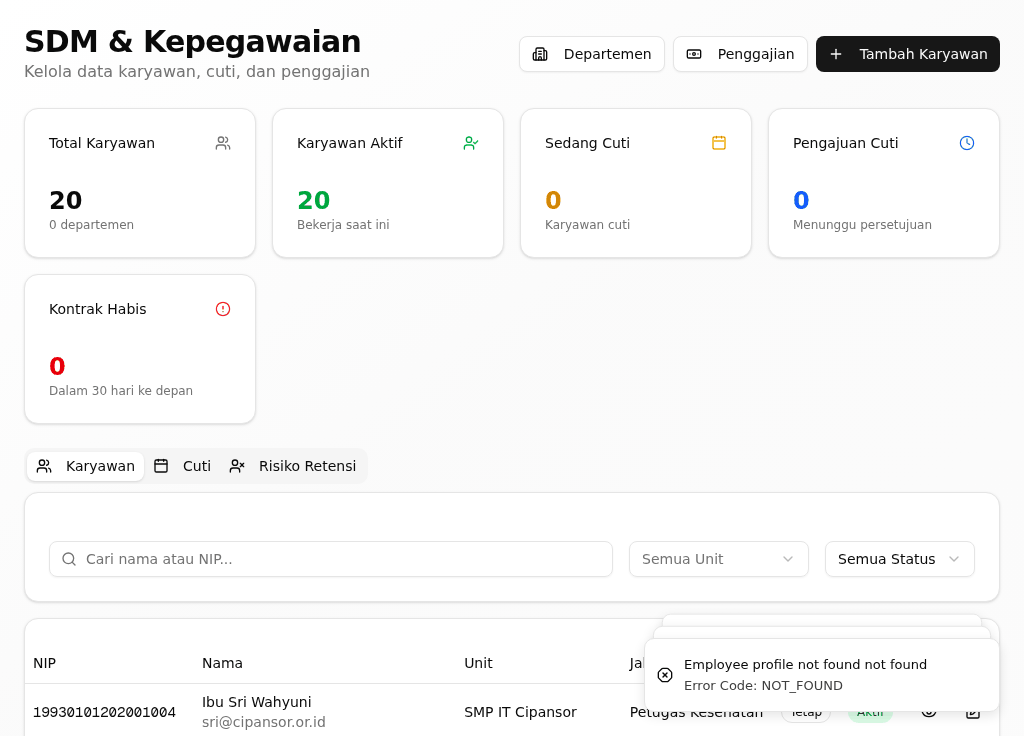
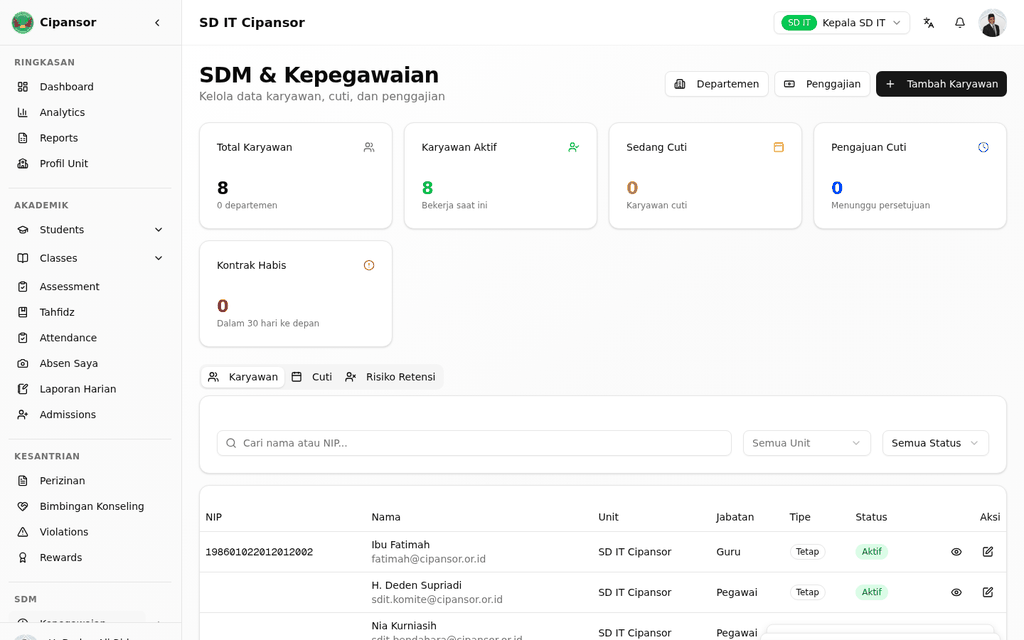
docs(hr): correct the kepala-unit pegawai card after review (#833)
The *Memantau pegawai dan cuti* card still claimed two things that are
not true, both verified on the running stack as sdit.kepala:

- "Saring dengan Semua Status" — GET /hr/employees ignores `status`, so
  ACTIVE / INACTIVE / ON_LEAVE all return the whole unit (8 rows), and
  RESIGNED / RETIRED are rejected with 400. The card now points at the
  search box and drops the status-filter claim.
- "tab Cuti … dan tab Risiko Retensi menampilkan …" — GET /hr/leaves
  answers 404 "Employee profile not found" for a kepala with no staff row
  and GET /hr/analytics/retention-risk is admin-only (403), so both tabs
  are empty for the kepala. The card now promises only the Karyawan tab
  and says Cuti/Retensi are admin territory.

Also records what the kepala actually sees: three error toasts on load
(leaves 404 + retention-risk/contracts-expiring 403).

Figure 6 is re-captured from /hr as the kepala (Karyawan tab) and the
manifest caption/bytes updated; revision row 0.3 records the re-run.

known-issues.md: the leave-form entry now lists the per-role statuses
(unit admin 404, Super Admin 500 FK leaves_staff_id_fkey, guru-for-self
403, non-teaching staff 404), plus two new entries (status filter is a
no-op and offers rejected values; /hr shows three error toasts to the
kepala).

diff --git a/docs/PANDUAN-PENGGUNA-KEPALA-UNIT.md b/docs/PANDUAN-PENGGUNA-KEPALA-UNIT.md
@@ -4,6 +4,7 @@
 |---|---|---|---|---|
 | 0.1 | 30 September 2026 | aplikasi berjalan dari kode commit `a4735001` | **T1 — terverifikasi di aplikasi berjalan** | Penyusunan awal; tiap kartu dijalankan dengan akun demo kepala unit pada tumpukan lokal (PostgreSQL + API :3001 + web :3000) dan memuat tangkapan layar asli |
 | 0.2 | 11 November 2026 | aplikasi berjalan dari kode `25693e32` | **T1 — terverifikasi di aplikasi berjalan** | Kartu *Mengelola pegawai dan cuti* diselaraskan dengan kewenangan yang sebenarnya: kepala unit **memantau** data pegawai dan cuti unit, sedangkan menambah/mengubah pegawai dan memutuskan cuti (setuju, tolak, batal) adalah kewenangan admin unit atau Super Admin. Kartu berganti judul menjadi *Memantau pegawai dan cuti*; langkahnya dijalankan ulang dengan akun demo kepala unit. |
+| 0.3 | 12 November 2026 | aplikasi berjalan dari kode `6b3c6127` (kode modul `hr` dan halaman `/hr` identik dengan `main` `e6e7e25e`) | **T1 — terverifikasi di aplikasi berjalan** | Kartu *Memantau pegawai dan cuti* diperbaiki setelah tinjauan: langkahnya dijalankan ulang dengan akun demo kepala unit pada tumpukan lokal — tab **Karyawan** menampilkan 8 pegawai unit, tab **Cuti** kosong ("Belum ada pengajuan cuti"), tab **Risiko Retensi** kosong ("Tidak ada data risiko yang ditemukan"). Klaim saring **Semua Unit**/**Semua Status** dilepas: saringan status tidak menyaring, dan analisis risiko retensi hanya terisi bagi admin unit atau Super Admin (`GET /hr/analytics/retention-risk` → 403 untuk kepala unit). |
 
 > **Tingkat verifikasi T1.** Semua kartu tugas di bawah sudah **dijalankan pada
 > aplikasi berjalan** dengan akun demo kepala unit, dan tiap kartu memuat
@@ -33,7 +34,7 @@ Semua data terbatas pada unit yang Anda pimpin.
 
 - Anda **memantau** santri, kehadiran, nilai, tahfidz, dan keuangan unit.
 - Anda **menyusun jadwal**, membuat penilaian, dan mengunduh rapor unit.
-- Anda **memantau** kepegawaian unit dan menilai kinerja pegawai.
+- Anda **memantau** data pegawai dan cuti unit, serta menilai kinerja pegawai.
 - Anda **tidak** menetapkan tagihan atau memeriksa bukti bayar — itu tugas
   bendahara unit.
 - Anda **tidak** menyusun naskah dinas — itu tugas tata usaha.
@@ -235,7 +236,7 @@ masing-masing.
 
 ## Memantau pegawai dan cuti
 
-**Tujuan.** Memantau data pegawai dan pengajuan cuti unit.
+**Tujuan.** Memantau data pegawai unit yang Anda pimpin.
 
 **Siapa.** Kepala unit.
 
@@ -246,25 +247,28 @@ masing-masing.
 **Langkah.**
 
 1. Buka **SDM & Kepegawaian**.
-2. Tab **Karyawan** menampilkan daftar pegawai unit: nama, NIP, jabatan, dan
-   status kepegawaian. Saring dengan **Semua Unit** atau **Semua Status** bila
-   perlu.
-3. Tab **Cuti** menampilkan pengajuan cuti, dan tab **Risiko Retensi**
-   menampilkan kontrak pegawai yang akan berakhir.
+2. Halaman membuka tab **Karyawan**: daftar pegawai unit yang Anda pimpin —
+   nama, NIP, jabatan, dan status kepegawaian. Bila daftarnya panjang, cari
+   dengan kotak **Cari nama atau NIP...**.
+3. Tab **Cuti** dan **Risiko Retensi** dapat dibuka, tetapi bagi kepala unit
+   keduanya biasanya kosong: keputusan cuti dan analisis risiko turnover adalah
+   urusan admin unit atau Super Admin.
 
-![Gambar 6. SDM & Kepegawaian: data pegawai, cuti, dan kontrak staf unit.](screens/kepemimpinan-kepala-unit/12-sdm.png){width=14cm}
+![Gambar 6. SDM & Kepegawaian: ringkasan unit dan daftar pegawai.](screens/kepemimpinan-kepala-unit/12-sdm.png){width=14cm}
 
-*Gambar 6. SDM & Kepegawaian: data pegawai, cuti, dan kontrak staf unit.*
+*Gambar 6. SDM & Kepegawaian: ringkasan unit dan daftar pegawai.*
 
-**Hasilnya, dan giliran siapa berikutnya.** Anda memantau data pegawai dan cuti
-unit. Menambah atau mengubah pegawai serta memutuskan cuti (setuju, tolak,
-batal) adalah kewenangan admin unit atau Super Admin, bukan kepala unit.
+**Hasilnya, dan giliran siapa berikutnya.** Anda memantau data pegawai unit.
+Menambah atau mengubah pegawai serta memutuskan cuti (setuju, tolak, batal)
+adalah kewenangan admin unit atau Super Admin, bukan kepala unit.
 
 **Bila tidak berhasil.**
 
 | Yang terlihat | Penyebab umum | Yang perlu dilakukan |
 |---|---|---|
-| Pegawai tidak muncul | Unit belum dipilih dengan benar | Saring dengan **Semua Unit** |
+| Pegawai tidak muncul | Pencarian terlalu sempit | Kosongkan kotak **Cari nama atau NIP...** |
+| Notifikasi galat muncul saat halaman dibuka | Tab **Cuti** dan **Risiko Retensi** menanyakan data yang bukan kewenangan kepala unit | Abaikan; tidak perlu tindakan |
+| Tab **Cuti** atau **Risiko Retensi** kosong | Tab itu urusan admin unit atau Super Admin | Tidak perlu tindakan; pakai tab **Karyawan** untuk data pegawai |
 | Menambah atau mengubah pegawai, atau memutuskan cuti, gagal | Bukan kewenangan kepala unit | Minta admin unit menambahkannya atau memutuskan cutinya |
 
 **Ketersediaan.** Ada pada versi aplikasi yang dijelaskan buklet ini (lihat bagian 1).

diff --git a/.claude/memory/known-issues.md b/.claude/memory/known-issues.md
@@ -59,9 +59,26 @@ workers refused on a closed day. Still open:
   `hr/leaves/new` binds each employee `<SelectItem value={emp.id}>`, and
   `emp.id` is the **user** id (`normalizeEmployee`), then posts it as `staffId`.
   `createLeave` resolves `staffId` against the `staff` profile (or a teacher's
-  `staffId`), so a user id matches neither and the API answers 404 "Staff not
-  found" (a non-admin is refused earlier by the route). Reproduced on the
-  running stack 2026-11-12; tracked in **#1061**.
+  `staffId`), so a user id matches neither. Observed on the running stack
+  2026-11-12: unit admin → 404 "Staff not found"; Super Admin → 500 (foreign
+  key `leaves_staff_id_fkey`); a guru filing for self → 403 ("Anda hanya dapat
+  mengelola cuti milik sendiri"); a non-teaching staff member → 404 "Data
+  kepegawaian Anda belum dibuat…". A guru who leaves the field blank gets 201 —
+  the API auto-fills their own staff row. Tracked in **#1061**.
+- **The employee *Status* filter on `/hr` does not filter, and offers statuses
+  the API rejects.** `HRPage` sends `status` to `GET /hr/employees`, but
+  `getEmployees` never reads it, so `status=ACTIVE`, `INACTIVE` and `ON_LEAVE`
+  all return the whole unit (8 rows on the demo unit). The dropdown
+  (`EMPLOYEE_STATUS` in `lib/constants.ts`) also offers **Resign** and
+  **Pensiun**, which `queryTeachersSchema` rejects with 400 (`status` is
+  `enum(['ACTIVE','INACTIVE','ON_LEAVE'])`). Found 2026-11-12 while verifying the
+  kepala-unit guide; the guide no longer tells anyone to filter by status.
+- **`/hr` greets the kepala unit with three error toasts.** `HRPage` calls
+  `useLeaves` and `useRetentionRisk` for every role, but `GET /hr/leaves` answers
+  404 "Employee profile not found" for a kepala sekolah with no staff row, and
+  `GET /hr/analytics/retention-risk` (plus `GET /hr/contracts/expiring`) is
+  admin-only → 403. `lib/api.ts` toasts each one. Found 2026-11-12 on the running
+  stack as the kepala; ask for those queries only when the role may read them.
 - **The bulk register loads the first 100 employees only** (`useStaffList`
   forces `limit: 100`).
 - **Dead code.** `teacherId` is still in three `hr.schema.ts` schemas and in

diff --git a/.claude/memory/progress.md b/.claude/memory/progress.md
@@ -481,6 +481,26 @@ vi.fn>`), and `e-office-retention.spec.ts`'s unit-scope case registered its
   *Ajukan Cuti*** mengirim **id pengguna** sebagai `staffId` (API menuntut id
   profil pegawai) → 404 "Staff not found"; dilacak di **#1061**.
 
+- **Koreksi tinjauan #1052, putaran kedua, 2026-11-12.** Setelah balasan putaran
+  pertama, kartu *Memantau pegawai dan cuti* masih menyatakan hal yang tidak
+  benar dan diverifikasi ulang pada tumpukan berjalan (kepala `sdit.kepala`):
+  langkah "saring dengan **Semua Status**" **tidak menyaring** (`GET
+  /hr/employees?status=ACTIVE|INACTIVE|ON_LEAVE` → total 8, sama; `RESIGNED`/
+  `RETIRED` → 400 karena `queryTeachersSchema` hanya menerima tiga nilai), dan
+  klaim tab **Cuti**/**Risiko Retensi** berisi data keliru — `GET /hr/leaves`
+  kepala → **404 "Employee profile not found"**, `GET /hr/analytics/retention-risk`
+  → **403** (rute admin-only), jadi kedua tab kosong bagi kepala. Kartu
+  dirapikan: hanya tab **Karyawan** (8 pegawai) yang dijanjikan, kotak **Cari
+  nama atau NIP...** menggantikan saringan status, dan tab Cuti/Retensi
+  dinyatakan kosong bagi kepala. Gambar 6 ditangkap ulang dari `/hr` (kepala,
+  tab Karyawan) dan manifes diperbarui. Riwayat Revisi menambah baris **0.3**
+  (kode `6b3c6127`). `.claude/memory/known-issues.md`: entri formulir cuti
+  diperkaya (unit admin 404, Super Admin **500** FK `leaves_staff_id_fkey`,
+  guru-untuk-diri 403, staf non-guru 404) dan ditambah entri baru "saringan
+  Status `/hr` tidak menyaring + menawarkan status yang ditolak API 400".
+  `check_docs.py` KEPALA-UNIT tetap **2 ERROR** (keduanya pra-ada di `main`:
+  kartu Pengumuman `Buat Baru` & pesan "Judul dan konten wajib diisi").
+
 - **Model A design document** — approved to draft on 2026-09-25: a permission
   per feature and action, data scope from the assignment, menus derived from
   permissions, separation-of-duty rules locked in code, and the account
